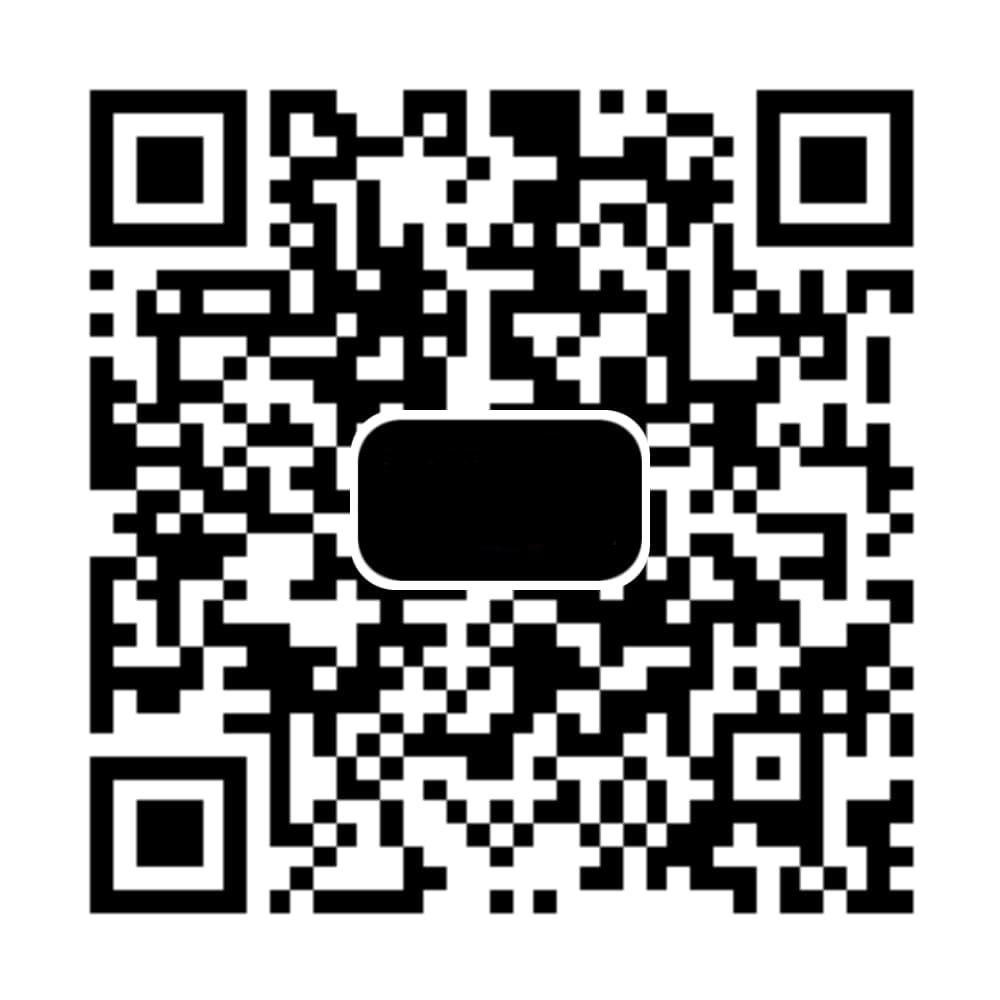
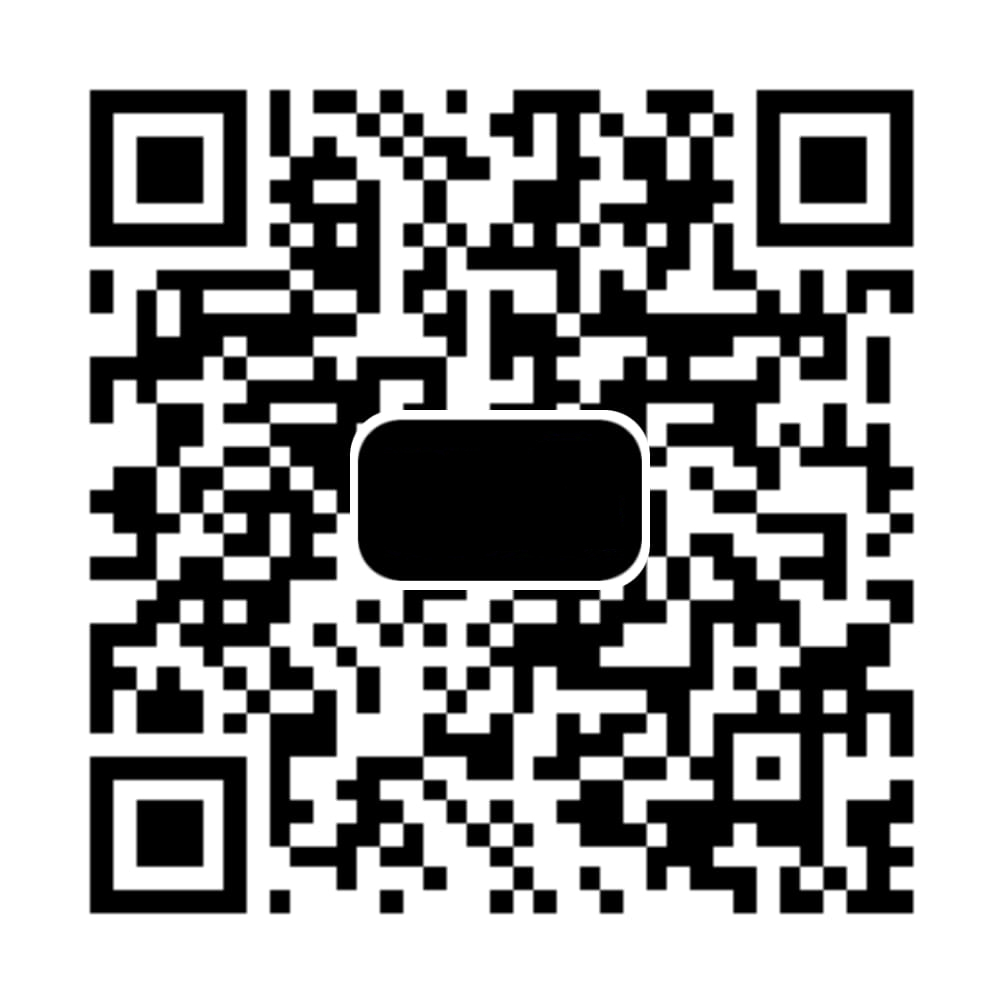
Update

diff --git a/README.md b/README.md
@@ -27,7 +27,7 @@ You can choose one of the shapes below:
       </td>
       <td align="center">
         <img src="https://raw.githubusercontent.com/williamcanin/donations/main/qrcodes/wos.jpg" width="120" alt="QR Code Lightning WoS"/><br/>
-        <sub>assuredarmy686@walletofsatoshi.com</sub>
+        <sub>williamcanin@walletofsatoshi.com</sub>
       </td>
    </tr>
   </tbody>
